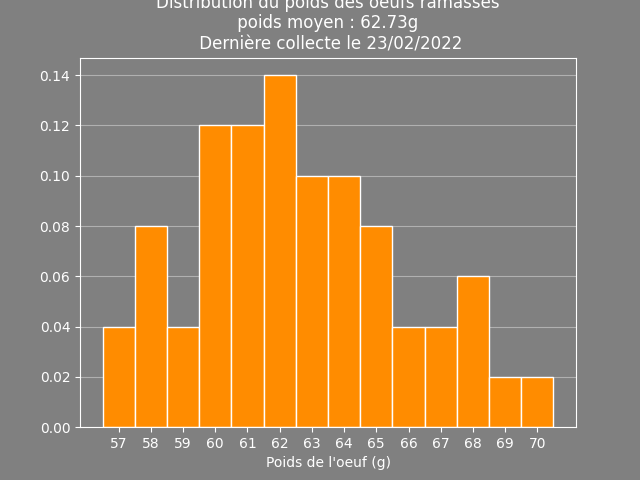
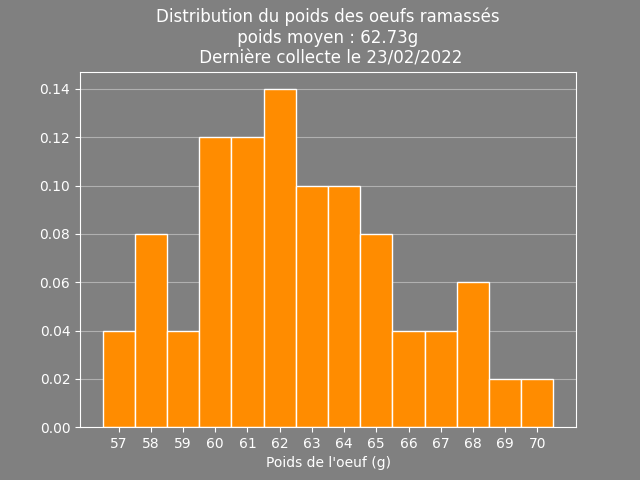
Légère modification de la figure

diff --git a/main_file.py b/main_file.py
@@ -48,7 +48,7 @@ Mean_weight 		= round(sum(Eggs_weight)/len(Eggs_weight),2)
 
 # We want one bin per value
 plt.figure(facecolor='grey') # defining background color
-
+plt.subplots_adjust(top=0.85) # adjusting top position
 plt.hist(Eggs_weight, bins =(max(Eggs_weight)-min(Eggs_weight)), range = (min(Eggs_weight)-0.5, max(Eggs_weight)-0.5),density=True, color="darkorange", ec='white')
 plt.title(label="Distribution du poids des oeufs ramassés"+"\n poids moyen : "+str(Mean_weight)+ "g \n Dernière collecte le "+Mydata[len(Mydata)-1][0].strftime("%d/%m/%Y"),color='w')
 
@@ -60,7 +60,6 @@ Mygraph_func.make_better_graph()
 
 # Saving the graph
 plt.savefig('./results/dist_oeufs.png')  
-
 
 
 
